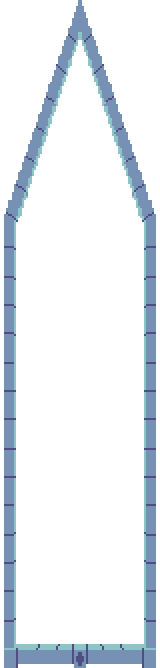
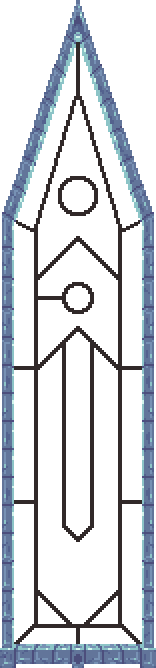
Squid Arena Updates

diff --git a/NPCs/Boss/SquidBoss/ArenaActor.cs b/NPCs/Boss/SquidBoss/ArenaActor.cs
@@ -210,7 +210,7 @@ namespace StarlightRiver.NPCs.Boss.SquidBoss
             }
 
             spriteBatch.End();
-            spriteBatch.Begin(SpriteSortMode.Deferred, default, default, default, default, default, Main.GameViewMatrix.ZoomMatrix);
+            spriteBatch.Begin(default, default, default, default, default, default, Main.GameViewMatrix.ZoomMatrix);
 
             DrawWindow(spriteBatch, new Vector2(0, -70), new Color(255, 200, 255));
 
@@ -219,31 +219,58 @@ namespace StarlightRiver.NPCs.Boss.SquidBoss
 
             DrawWindow(spriteBatch, new Vector2(20, -65), new Color(200, 255, 200));
             DrawWindow(spriteBatch, new Vector2(11, -105), new Color(200, 255, 255));
+
+            spriteBatch.End();
+
+            DrawWindowLit(new Vector2(0, -70));
+
+            DrawWindowLit(new Vector2(-20, -65));
+            DrawWindowLit(new Vector2(-11, -105));
+
+            DrawWindowLit(new Vector2(20, -65));
+            DrawWindowLit(new Vector2(11, -105));
+
+            spriteBatch.Begin(default, default, default, default, default, default, Main.GameViewMatrix.ZoomMatrix);
+        }
+
+        private void DrawWindowLit(Vector2 off)
+        {
+            Texture2D texOver = GetTexture("StarlightRiver/NPCs/Boss/SquidBoss/SmallWindow");
+
+            Vector2 pos = npc.Center - (texOver.Size() / 2) + off * 16;
+            Helper.DrawWithLighting(pos - Main.screenPosition, texOver);
         }
 
         private void DrawWindow(SpriteBatch spriteBatch, Vector2 off, Color color)
         {
-            Texture2D tex = GetTexture("StarlightRiver/NPCs/Boss/SquidBoss/Background1");
+            
+            Texture2D background1 = GetTexture("StarlightRiver/NPCs/Boss/SquidBoss/Background1");
+            Texture2D background2 = GetTexture("StarlightRiver/NPCs/Boss/SquidBoss/Background2");
+            Texture2D texUnder = GetTexture("StarlightRiver/NPCs/Boss/SquidBoss/SmallWindowUnder");
+            Texture2D texOver = GetTexture("StarlightRiver/NPCs/Boss/SquidBoss/SmallWindowIn");
+
+            spriteBatch.Draw(texUnder, npc.Center + new Vector2(off.X * 16, off.Y * 16) - Main.screenPosition, null, new Color(24, 47, 45), 0, texUnder.Size() / 2, 1, 0, 0);
 
             var position = npc.Center + new Vector2(off.X * 16, off.Y * 16) - Main.screenPosition;
-            var target = new Rectangle((int)position.X, (int)position.Y, 160, 668);
+            var target = new Rectangle((int)position.X, (int)position.Y + 105, 140, 428);
 
             var sourcePos = new Vector2(0, 400) + FindOffset(npc.Center, -0.1f);
             var source = new Rectangle((int)sourcePos.X, (int)sourcePos.Y, 160, 668);
 
-            spriteBatch.Draw(tex, target, source, Color.White, 0, new Vector2(80, 334), 0, 0);
+            spriteBatch.Draw(background2, target, source, Color.White, 0, new Vector2(80, 334), 0, 0);
+            spriteBatch.Draw(background1, target, source, Color.White, 0, new Vector2(80, 334), 0, 0);          
 
             if (!StarlightWorld.HasFlag(WorldFlags.SquidBossDowned) && !NPC.AnyNPCs(NPCType<SquidBoss>()))
             {
-                Texture2D tex2 = GetTexture("StarlightRiver/NPCs/Boss/SquidBoss/TentacleGlow");
-                Texture2D tex3 = GetTexture("StarlightRiver/NPCs/Boss/SquidBoss/TentacleTop");
-                Texture2D tex4 = GetTexture("StarlightRiver/NPCs/Boss/SquidBoss/TentacleBody");
-                Texture2D tex5 = GetTexture("StarlightRiver/NPCs/Boss/SquidBoss/BodyPreview");
+                Texture2D tentacleGlow = GetTexture("StarlightRiver/NPCs/Boss/SquidBoss/TentacleGlow");
+                Texture2D tentacleTop = GetTexture("StarlightRiver/NPCs/Boss/SquidBoss/TentacleTop");
+                Texture2D tentacleMid = GetTexture("StarlightRiver/NPCs/Boss/SquidBoss/TentacleBody");
+                Texture2D squidBody = GetTexture("StarlightRiver/NPCs/Boss/SquidBoss/BodyPreview");
 
                 if (off.X == 0)
                 {
                     Vector2 tentaclePos = new Vector2(off.X * 16 + (float)Math.Cos(npc.ai[1] + off.X * 0.2f) * 5, off.Y * 16 + (float)Math.Sin(npc.ai[1] + off.X * 0.2f) * 2);
-                    spriteBatch.Draw(tex5, npc.Center + tentaclePos + new Vector2(-4, 214) - Main.screenPosition, new Rectangle(22, 0, 136, 150), Color.White, 0, new Vector2(64, 50), 1, 0, 0);
+                    spriteBatch.Draw(squidBody, npc.Center + tentaclePos + new Vector2(-4, 214) - Main.screenPosition, new Rectangle(22, 0, 136, 150), Color.White, 0, new Vector2(64, 50), 1, 0, 0);
                 }
                 else
                 {
@@ -253,31 +280,21 @@ namespace StarlightRiver.NPCs.Boss.SquidBoss
                     for (int k = 0; k < 32; k++)
                     {
                         var pos = npc.Center + Vector2.Lerp(tentaclePos, off * 16 + new Vector2((float)Math.Sin(npc.ai[1] + k * 0.5f) * 5, 200), k / 20f) - Main.screenPosition;
-                        spriteBatch.Draw(tex4, pos, null, Color.White, 0, tex4.Size() / 2, 1, 0, 0);
+                        spriteBatch.Draw(tentacleMid, pos, null, Color.White, 0, tentacleMid.Size() / 2, 1, 0, 0);
                     }
 
-                    spriteBatch.Draw(tex2, npc.Center + tentaclePos - Main.screenPosition, null, Color.White, tentacleRot, tex2.Size() / 2, 1, 0, 0);
-                    spriteBatch.Draw(tex3, npc.Center + tentaclePos - Main.screenPosition, null, Color.White, tentacleRot, tex2.Size() / 2, 1, 0, 0);
+                    spriteBatch.Draw(tentacleGlow, npc.Center + tentaclePos - Main.screenPosition, null, Color.White, tentacleRot, tentacleGlow.Size() / 2, 1, 0, 0);
+                    spriteBatch.Draw(tentacleTop, npc.Center + tentaclePos - Main.screenPosition, null, Color.White, tentacleRot, tentacleGlow.Size() / 2, 1, 0, 0);
                 }
             }
 
-            Texture2D texOver = GetTexture("StarlightRiver/NPCs/Boss/SquidBoss/SmallWindowIn");
-            spriteBatch.Draw(texOver, npc.Center + new Vector2(off.X * 16, off.Y * 16) - Main.screenPosition, null, color * 0.5f, 0, texOver.Size() / 2, 1, 0, 0);
+            spriteBatch.Draw(texOver, npc.Center + new Vector2(off.X * 16, off.Y * 16) - Main.screenPosition, null, Color.White * 0.25f, 0, texOver.Size() / 2, 1, 0, 0);
 
             if (StarlightWorld.cathedralOverlay.fade)
             {
                 for (int k = 0; k < 5; k++)
                     Lighting.AddLight(npc.Center + new Vector2(off.X * 16, off.Y * 16) + new Vector2(0, -100 + k * 50), color.ToVector3() * 0.5f);
             }
-
-            Texture2D tex6 = GetTexture("StarlightRiver/NPCs/Boss/SquidBoss/SmallWindow");
-
-            for (int x = 0; x < tex6.Width / 16; x++)
-                for (int y = 0; y < tex6.Height / 16; y++)
-                {
-                    Vector2 pos = npc.Center - (tex6.Size() / 2) + new Vector2(x + off.X, y + off.Y) * 16;
-                    spriteBatch.Draw(tex6, pos - Main.screenPosition, new Rectangle(x * 16, y * 16, 16, 16), Lighting.GetColor((int)pos.X / 16, (int)pos.Y / 16), 0, Vector2.Zero, 1, 0, 0);
-                }
 
             Dust d = Dust.NewDustPerfect(npc.Center + off * 16 + new Vector2(Main.rand.Next(-60, 60), 300 - Main.rand.Next(400)), 257, new Vector2(0, -2), 200, color * 1.8f, 1);
             d.noGravity = true;

diff --git a/Core/SwimPlayer.cs b/Core/SwimPlayer.cs
@@ -1,0 +1,95 @@
+using Microsoft.Xna.Framework;
+using System;
+using System.Collections.Generic;
+using System.Linq;
+using System.Text;
+using System.Threading.Tasks;
+using Terraria;
+using Terraria.ModLoader;
+using static Terraria.ModLoader.ModContent;
+
+namespace StarlightRiver.Core //TODO: Move this somewhere else? not sure.
+{
+    class SwimPlayer : ModPlayer
+    {
+        int boostCD = 0;
+        float targetRotation = 0;
+        float realRotation = 0;
+
+        public override void PostUpdate()
+        {
+            if (!player.HasBuff(BuffType<Buffs.PrismaticDrown>())) //TODO: Better check later
+            {
+                if (boostCD > 0)
+                {
+                    boostCD = 0;
+                    player.UpdateRotation(0);
+                }
+                return; 
+            }
+
+            player.maxFallSpeed = 0;
+            player.gravity = 0;
+            targetRotation = player.velocity.ToRotation();
+
+            realRotation %= 6.28f;
+
+            if (Math.Abs(targetRotation - realRotation) % 6.28f > 0.11f)
+            {
+                float mod(float a, float b) => a % b > 0 ? a % b : a % b + b;
+                if (mod(targetRotation, 6.28f) > mod(realRotation, 6.28f))
+                    realRotation += 0.1f;
+                else
+                    realRotation -= 0.1f;
+            }
+            else realRotation = targetRotation;
+
+            player.fullRotation = realRotation + ((float)Math.PI / 2f);
+            player.fullRotation %= 6.28f;
+
+            player.fullRotationOrigin = player.Size / 2;
+
+            if (player.itemAnimation == 0)
+                player.bodyFrame = new Rectangle(0, 56 * (int)(1 + Main.GameUpdateCount / 10 % 5), 40, 56);
+
+            else if (player.HeldItem.useStyle != Terraria.ID.ItemUseStyleID.SwingThrow && player.itemAnimation == player.itemAnimationMax - 1)
+                player.itemRotation -= realRotation + 1.57f;
+
+            player.legFrame = new Rectangle(0, 56 * (int)(5 + Main.GameUpdateCount / 7 % 3), 40, 56);
+
+            if (player.controlRight) player.velocity.X += 0.2f;
+            if (player.controlLeft) player.velocity.X -= 0.2f;
+            if (player.controlDown) player.velocity.Y += 0.2f;
+            if (player.controlUp) player.velocity.Y -= 0.2f;
+
+            player.velocity.Y -= 0.4125f; //this combats vanilla gravity.
+
+            player.velocity *= 0.97f;
+
+            if (player.controlJump && boostCD <= 0)
+            {
+                boostCD = 90;              
+            }
+
+            if (boostCD > 60)
+            {
+                var timer = ((90 - boostCD) - 60) / 30f;
+                var angle = timer * 6.28f;
+                var off = new Vector2((float)Math.Cos(angle) * 40, (float)Math.Sin(angle) * 20);
+
+                player.UpdateRotation(angle);
+                Dust.NewDustPerfect(player.Center + off.RotatedBy(player.fullRotation), DustType<Dusts.Starlight>());
+                Dust.NewDustPerfect(player.Center - off.RotatedBy(player.fullRotation), DustType<Dusts.Starlight>());
+
+                player.bodyFrame = new Rectangle(0, 0, 40, 56);
+                player.legFrame = new Rectangle(0, 0, 40, 56);
+
+                player.velocity += Vector2.Normalize(player.velocity) * 0.35f;
+                player.AddBuff(Terraria.ID.BuffID.Cursed, 1, true);
+            }
+            else player.UpdateRotation(0);
+
+            if (boostCD > 0) boostCD--;
+        }
+    }
+}

diff --git a/ILHooks.cs b/ILHooks.cs
@@ -358,7 +358,7 @@ namespace StarlightRiver
                 effect.Parameters["power"].SetValue(0.002f  + 0.0005f * (float)Math.Sin(StarlightWorld.rottime));
                 effect.Parameters["speed"].SetValue(50f);
 
-                Main.spriteBatch.Draw(CatherdalWaterTarget, Vector2.Zero, Color.White);
+                Main.spriteBatch.Draw(CatherdalWaterTarget, Vector2.Zero - Main.LocalPlayer.velocity, Color.White);
 
                 Main.spriteBatch.End();
                 Main.spriteBatch.Begin(default, default, default, default, default, default, Main.GameViewMatrix.ZoomMatrix);
